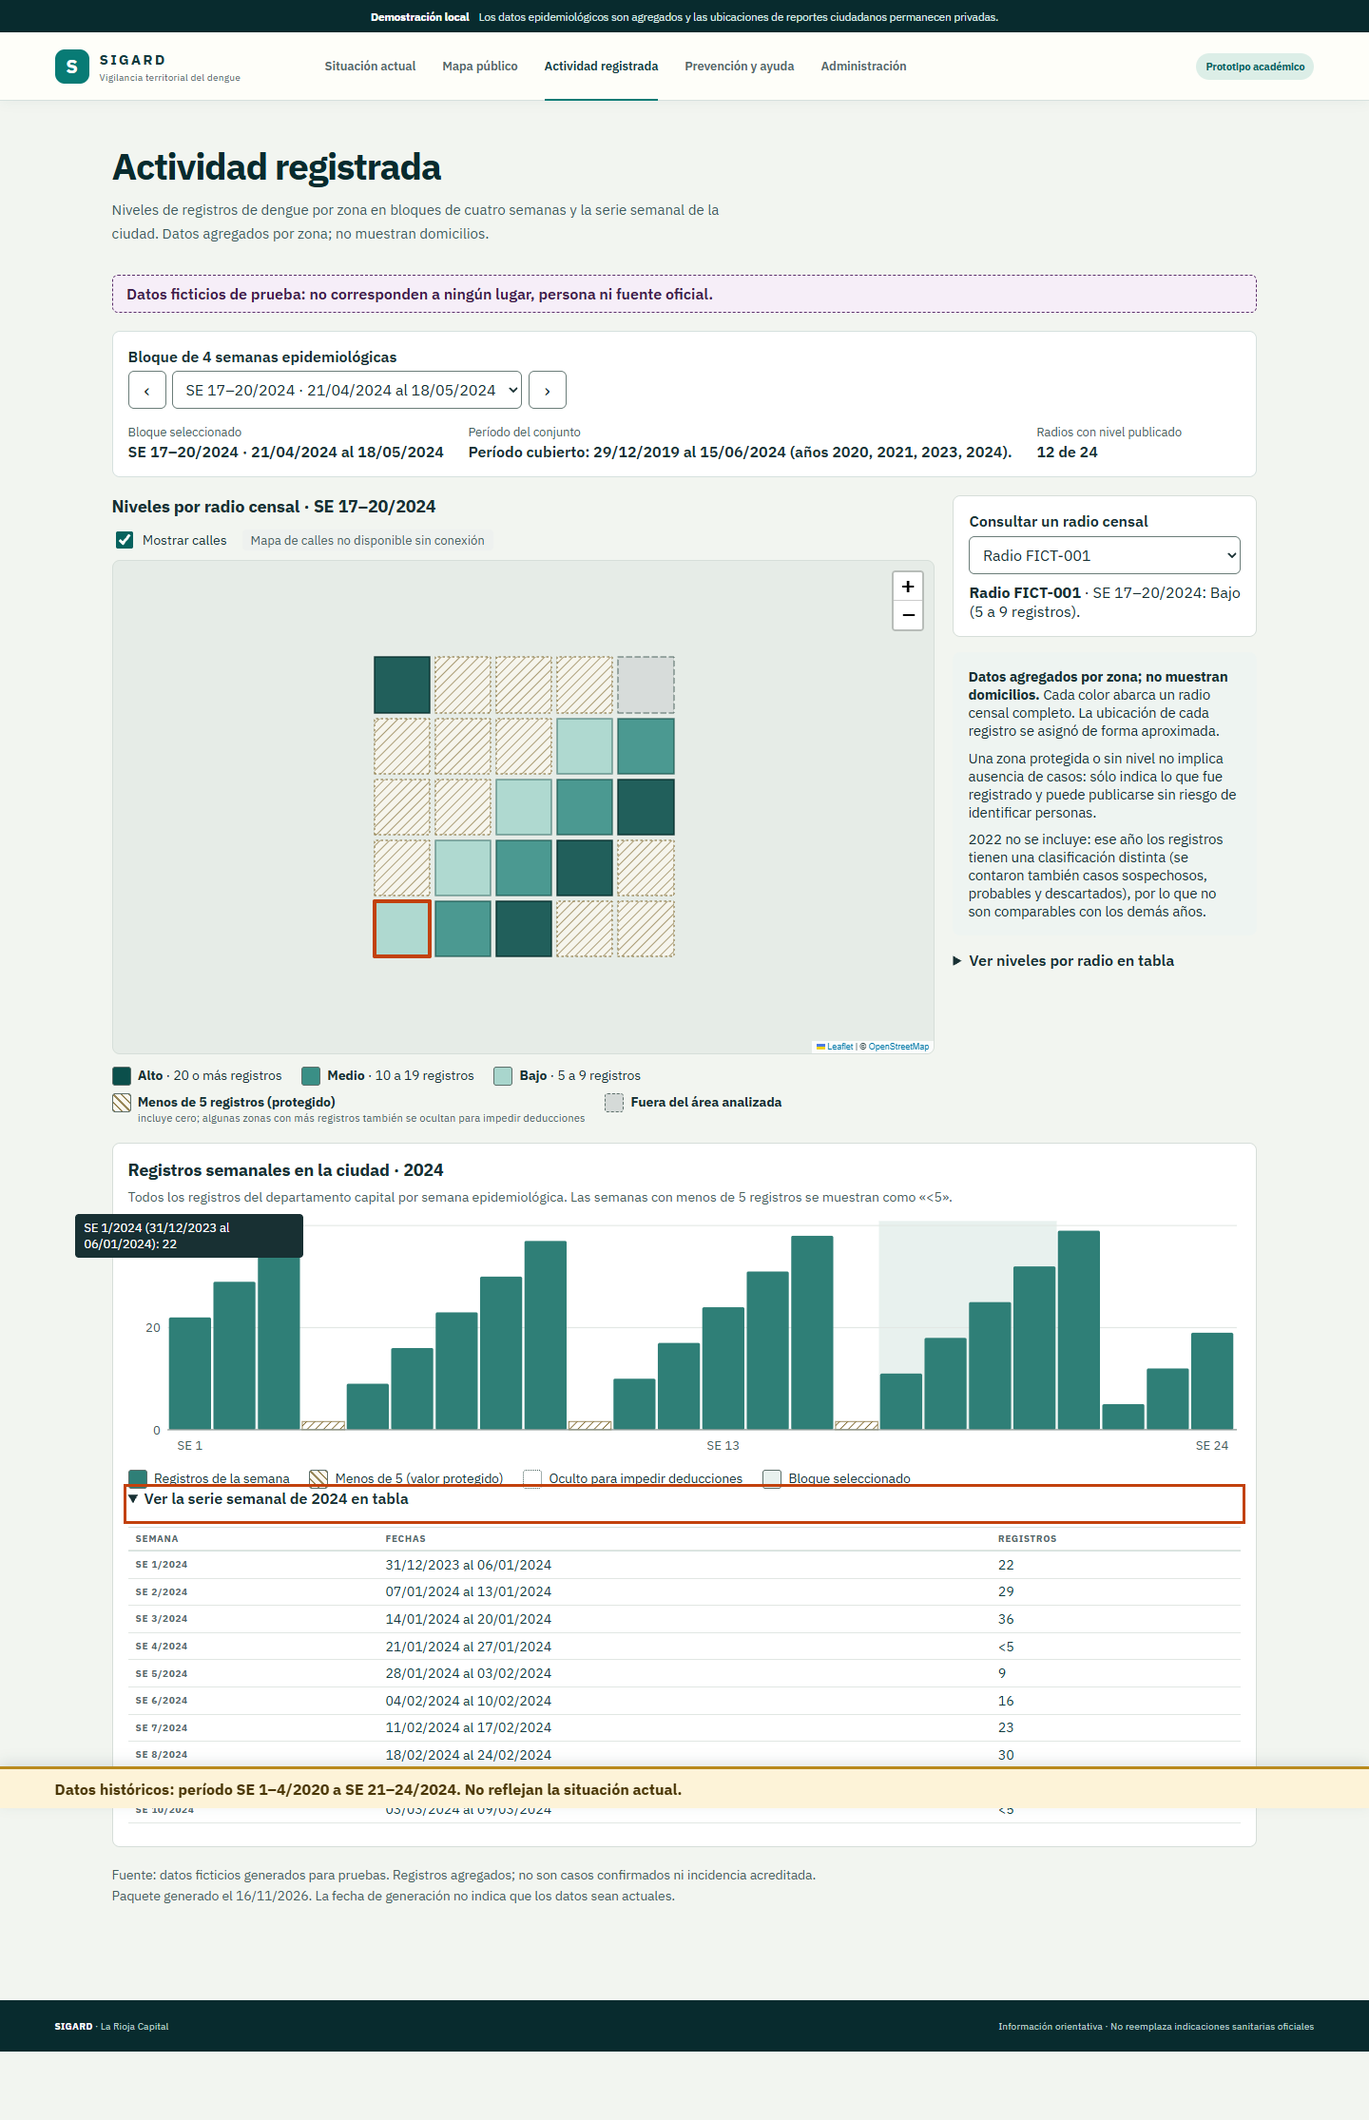
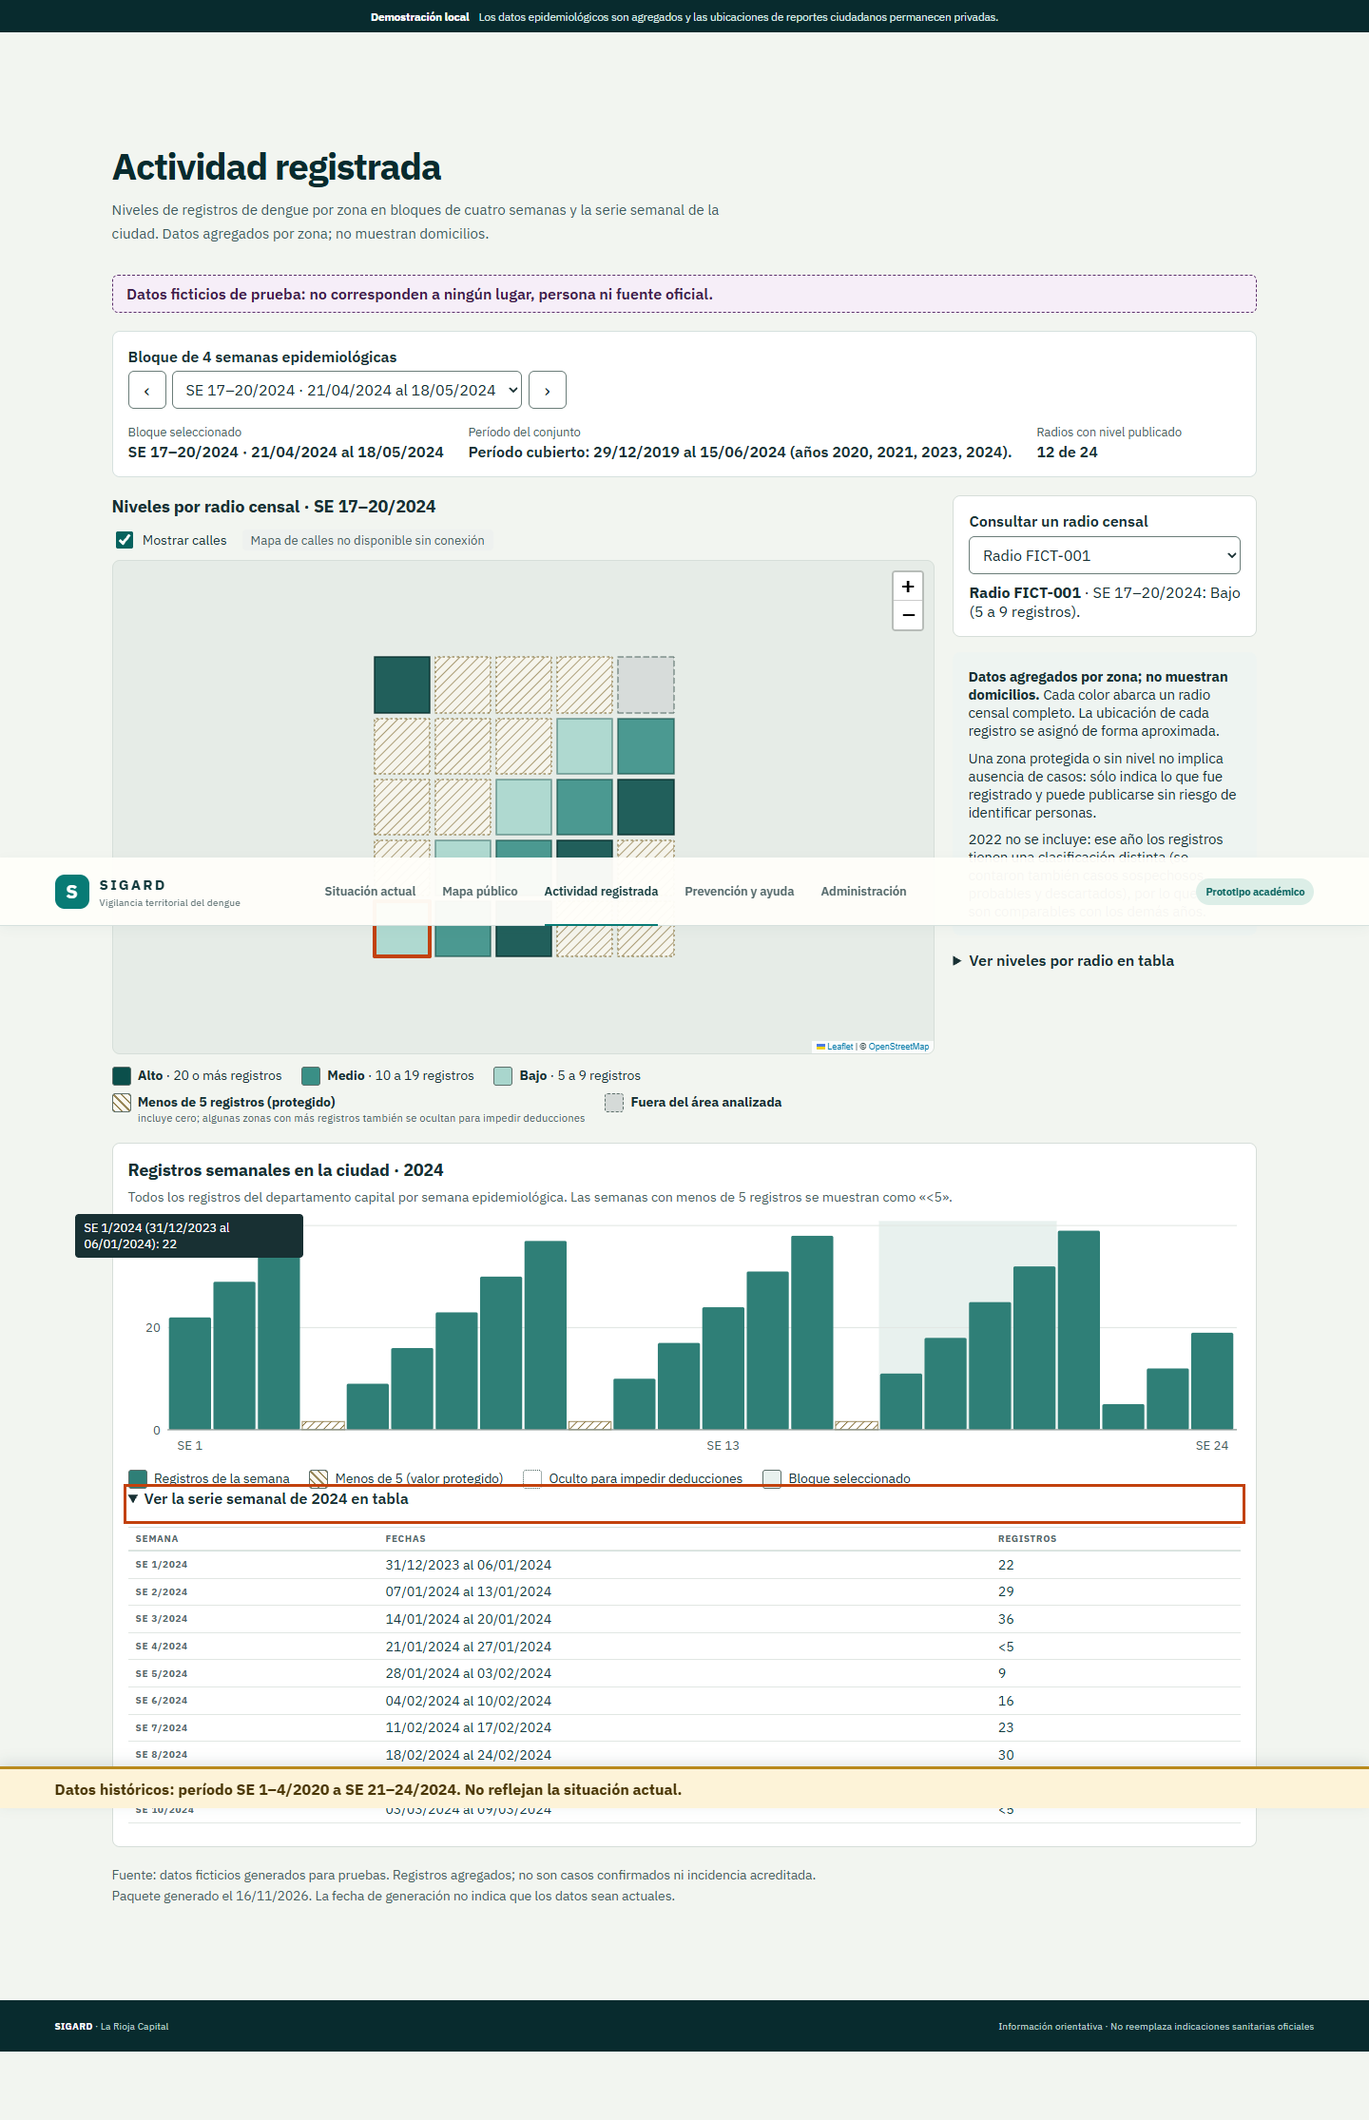
docs: portada ciudadana en el manual, estado funcional y README
- Manual ciudadano: nueva sección «Situación actual (portada)» con tres
  capturas nuevas (escritorio y celular con datos ficticios, celular sin
  datos autorizados) y capturas regeneradas de actividad, prevención y
  seguimiento (fixtures ficticias de public-activity y citizen-flow).
- Estado funcional: qué muestra la portada, qué se quitó de la vista
  pública y pendiente de frases sanitarias en PreventionGuide y
  SymptomsAlert de /prevencion.
- README del frontend y doc local: ruta / y nuevas pruebas.

diff --git a/docs/mvp-functional-status.md b/docs/mvp-functional-status.md
@@ -44,6 +44,32 @@ Cierre funcional del 21/10/2026: rama `entrenamiento-ML`. Alcance: prototipo aca
 no sistema sanitario operativo. Esta matriz contrasta documentación con código;
 no toma los estados históricos del plan como prueba de implementación.
 
+## Portada pública ciudadana — 27/11/2026
+
+La ruta `/` («Situación actual») pasó a ser una portada para la ciudadanía, en siete bloques:
+accesos (cómo prevenir, reportar un posible criadero, ver el mapa); registros de la ciudad en las
+últimas 8 semanas con fecha del dato y tendencia; qué hacer hoy y síntomas, tomados del contenido
+preventivo publicado con su fuente; cómo funciona el reporte y su privacidad; calendario de temporada
+en períodos de 4 semanas; y sobre SIGARD, privacidad y canales oficiales.
+
+- **Datos:** sólo el paquete autorizado de actividad (`GET /api/v1/public/activity`, serie semanal
+  de la ciudad con valores menores a 5 como «<5»/«oculto»). Sin autorización institucional responde
+  404 y la portada muestra un estado vacío; nunca convierte un valor protegido en cero. La
+  tendencia y el total de un período se calculan sólo si todas sus semanas son visibles. Con el
+  paquete ficticio se muestra «Datos ficticios de demostración» en ambos bloques.
+- **Contenido sanitario:** secciones publicadas (`/api/v1/public/prevention` o respaldo estático)
+  con su fuente; la portada no escribe síntomas ni consejos propios. Los contactos y el número de
+  emergencia se muestran sólo con estado `publicado`/`confirmado`.
+- **Quitado de la vista pública:** predicción departamental, ranking de radios por percentil y
+  nombre del modelo (decisión del responsable). La simulación espacial y el contexto territorial
+  siguen en `/mapa`, sin cambios. `/` ya no carga la publicación del MVP.
+- **Pruebas:** `test:public-home` (11) y `test:public-home:browser` (390 px y 1440 px, paquete
+  ficticio y estado vacío, contraste AA, texto ≥ 16 px, accesos y teclado).
+- **Pendiente (sin cambios en esta etapa):** `PreventionGuide` y `SymptomsAlert` de `/prevencion`
+  tienen frases sanitarias escritas en el código (por ejemplo «Sin agua acumulada, el mosquito no
+  puede completar su ciclo», «Revisá tu casa y los espacios cercanos cada semana…») en lugar de
+  venir del contenido publicado.
+
 ## Entorno integral de demostración descartable — 21/10/2026
 
 `npm run dev:demo` desde `frontend` coordina Vite 5173, investigación A/B 8765
@@ -250,11 +276,11 @@ con PostGIS. Docker sigue apagado y no se utilizó PostgreSQL 5432.
 | Plan etapa 2 | Persistencia geoespacial y publicación versionada | Parcial | Etapa 17: cuatro migraciones aplicadas/revertidas/reaplicadas en PostgreSQL/PostGIS real; punto generado, polígono ficticio, SRID, FK/índices/GiST y GeoJSON | Alta | Integración descartable verificada; falta importador completo con lote territorial y operación persistente. No se utilizó 5432. |
 | Plan etapas 3 y 6; MVP datos consumidos | API pública de semanas, predicciones, capas y evaluación | Parcial | `public.py`, regresión `test_public_api.py`; etapa 17 comprueba rutas espaciales/GeoJSON en PostGIS con geometrías ficticias, también desde navegador | Alta | Conserva evidencia previa de 263 radios por HTTP/SQLite y fallback; falta importación completa de esos datos en PostGIS y lote operativo. |
 | MVP §1–5; consolidación §3 | Ingreso anónimo y navegación pública | Completa | `App.jsx`, seis rutas existentes y navegación compartida | Alta | Mantener separación de prevención/administración y datos analíticos. |
-| MVP §1 | Resumen de la semana, estimación agregada y procedencia | Completa | `pages/Dashboard.jsx`, `StatCard`, `TopRadios`, `services/sigardData.js` | Alta | Mantener distinción entre total departamental y señal territorial. |
+| MVP §1 | Resumen de la semana, estimación agregada y procedencia | Reemplazada (27/11/2026) | La portada ciudadana (`pages/Dashboard.jsx`, `services/publicHome.mjs`) ya no muestra estimación departamental, ranking ni modelo; la simulación y el contexto siguen en `/mapa` | Alta | Ver «Portada pública ciudadana — 27/11/2026». |
 | MVP §2; plan etapa 7 | Cambio temporal alineado entre predicción y simulación | Completa | Estado compartido en `App.jsx`, `TemporalControls`, `getExperimentalCollection`, `assertCompleteData` | Alta | Mantener validación exacta de corte e inicio/fin de semana. |
 | MVP §3; plan etapa 7 | Mapa público de contexto y simulación con detalle agregado | Completa | `pages/Mapa.jsx`, `TerritorialMap`, `RadioDetails`, geometrías públicas aprobadas | Alta | Conservar 263 radios y leyendas sin umbrales sanitarios. |
 | Plan etapa 7: teclado y alternativa textual; PRODUCT accesibilidad | Consultar cualquier radio público sin pulsar un polígono | Completa | `TerritorialMap` incorpora selector nativo, detalle vivo, enfoque y contorno; `security/public-map.test.mjs` y recorrido real de teclado/clic en Chromium | Alta | **Resuelta en etapa 13.** Conservar selección por código y leer siempre los valores de la capa/semana vigente. |
-| MVP §3 y §5; plan §3 y etapa 7 | Leyendas y distinción observado/sintético/predicho | Completa | `LevelLegend`, `MethodNotice`, `RadioDetails`, `Dashboard.jsx`, metadatos aprobados | Alta | No rotular percentiles o scores como riesgo epidemiológico validado. |
+| MVP §3 y §5; plan §3 y etapa 7 | Leyendas y distinción observado/sintético/predicho | Completa | `LevelLegend`, `MethodNotice`, `RadioDetails`, `Mapa.jsx`, metadatos aprobados | Alta | No rotular percentiles o scores como riesgo epidemiológico validado. |
 | MVP §4 | Validación temporal pública con métricas y tabla de seis semanas | Completa | `pages/Validacion.jsx`, `BacktestChart`, `model_evaluation.json` | Media | Conservar alcance departamental y limitaciones exploratorias. |
 | MVP §5 | Metodología y advertencias | Completa | `pages/Metodologia.jsx`, avisos junto a mapas | Media | Mantener coherencia con contratos de cada circuito. |
 | MVP §6; plan etapa 10 (RF-19–20 agrupados); módulo §4 | Prevención, síntomas, fuentes y teléfonos | Completa | `pages/Prevencion.jsx`, `PreventionGuide`, `SymptomsAlert`, `prevention_content.json`, `services/preventionData.js` | Alta | Mantener revisión editorial; no se incorpora ni modifica consejo médico aquí. |

diff --git a/docs/manuales/manual-ciudadano.md b/docs/manuales/manual-ciudadano.md
@@ -4,7 +4,7 @@ SIGARD · Vigilancia territorial del dengue · La Rioja Capital
 Versión del prototipo: `v1.0.0` (noviembre de 2026)
 
 > Las imágenes de este manual se tomaron con **datos ficticios de prueba**. No muestran casos
-> reales ni la situación sanitaria de la ciudad. Se actualizaron el 25/11/2026 con las pantallas
+> reales ni la situación sanitaria de la ciudad. Se actualizaron el 27/11/2026 con las pantallas
 > vigentes.
 
 ## 1. ¿Qué es SIGARD?
@@ -28,7 +28,7 @@ En la parte superior hay un menú con estas secciones:
 
 | Sección | Para qué sirve |
 |---|---|
-| Situación actual | Resumen general del prototipo |
+| Situación actual | Portada: accesos rápidos, registros de años anteriores, prevención, síntomas, reporte y canales oficiales |
 | Mapa público | Mapa de contexto de la ciudad |
 | Actividad registrada | Datos históricos protegidos por zona (sólo aparece si está habilitada) |
 | Prevención y ayuda | Prevención, síntomas, centros de salud, teléfonos, reporte y seguimiento |
@@ -36,7 +36,37 @@ En la parte superior hay un menú con estas secciones:
 
 El sitio funciona en computadora y en celular, y se puede recorrer con el teclado (tecla Tab).
 
-## 3. Prevención y ayuda
+## 3. Situación actual (portada)
+
+![Portada con datos ficticios de demostración, en computadora](img/ciudadano-portada.png)
+
+![La portada en el celular (datos ficticios)](img/ciudadano-portada-movil.png)
+
+La portada reúne lo más útil en una sola página:
+
+1. **Tres accesos**: **Cómo prevenir**, **Reportar un posible criadero** y **Ver el mapa**.
+2. **Registros de dengue en la ciudad**: cuántos registros hubo en cada una de las últimas 8
+   semanas con datos, con la fecha del último dato. **Es una reconstrucción histórica: no muestra
+   la situación actual.** Las semanas con menos de 5 registros aparecen como «Menos de 5». Si
+   alguna semana está protegida, el sitio no calcula si los registros subieron o bajaron, porque
+   eso permitiría deducir el valor oculto.
+3. **Qué podés hacer hoy** y **Síntomas y cuándo consultar**: el mismo contenido que publica el
+   equipo de salud en Prevención y ayuda, con la fuente de cada texto. El botón para llamar a
+   emergencias aparece sólo si ese teléfono está confirmado.
+4. **Cómo funciona el reporte ciudadano**: los pasos y qué datos se guardan.
+5. **Calendario de temporada**: los registros de cada período de 4 semanas (por ejemplo, «del 7 de
+   enero al 3 de febrero»). Elegí el año con los botones. Todas las barras usan la misma escala.
+   Los períodos con alguna semana protegida se ven con rayas y sin total.
+6. **Sobre SIGARD**: qué es, cómo se cuida la privacidad, teléfonos confirmados y fuentes
+   oficiales.
+
+Mientras el Ministerio de Salud no autorice publicar los registros, los bloques 2 y 5 muestran un
+aviso en lugar de cifras. Cuando la página usa datos de prueba, lo indica con el aviso **«Datos
+ficticios de demostración»**.
+
+![La portada en el celular, sin datos autorizados](img/ciudadano-portada-vacia-movil.png)
+
+## 4. Prevención y ayuda
 
 ![Página de prevención con centros de salud, teléfonos, reporte y seguimiento](img/ciudadano-prevencion-y-reporte.png)
 
@@ -56,7 +86,7 @@ En **Prevención y ayuda** vas a encontrar:
 El contenido lo actualiza el personal autorizado. Si el servicio no está disponible, el sitio
 muestra igual una versión guardada de la información.
 
-## 4. Enviar un reporte anónimo
+## 5. Enviar un reporte anónimo
 
 Usalo para avisar sobre **posibles criaderos o problemas en el espacio público**: agua acumulada,
 neumáticos o chatarra, microbasurales, mucha presencia de mosquitos o un pedido de control
@@ -83,7 +113,7 @@ Al terminar, el sitio te muestra un **código de seguimiento** con el formato `S
 **Guardalo**: es la única forma de consultar tu reporte, porque el sistema no te pide nombre ni
 correo.
 
-## 5. Consultar el estado de un reporte
+## 6. Consultar el estado de un reporte
 
 ![Consulta del estado con el código de seguimiento](img/ciudadano-reporte-estado.png)
 
@@ -102,7 +132,7 @@ También se muestran las fechas de recepción y de última actualización y, a v
 breve del equipo. **La consulta nunca muestra la descripción, la dirección ni las coordenadas**
 del reporte.
 
-## 6. Actividad registrada (datos históricos)
+## 7. Actividad registrada (datos históricos)
 
 ![Vista «Actividad registrada» con datos ficticios](img/ciudadano-actividad.png)
 
@@ -142,7 +172,7 @@ está disponible.
 exacto podría ayudar a identificar a una persona. Por eso los valores menores a 5 nunca se
 muestran, y se ocultan también otros valores con los que se podría deducir un número protegido.
 
-## 7. Privacidad
+## 8. Privacidad
 
 - Los reportes son **anónimos**: no se piden nombre, documento, correo ni teléfono.
 - La ubicación exacta y la descripción de tu reporte sólo las ve el personal autorizado, dentro
@@ -150,7 +180,7 @@ muestran, y se ocultan también otros valores con los que se podría deducir un 
 - Los reportes se conservan un tiempo limitado (180 días por defecto) y después se eliminan.
 - Los mapas públicos muestran **sólo datos agregados por zona**, nunca casos individuales.
 
-## 8. Limitaciones
+## 9. Limitaciones
 
 - SIGARD es un **prototipo académico en evaluación**, no un servicio oficial del Municipio ni del
   Ministerio. Enviar un reporte no garantiza una intervención.
@@ -160,7 +190,7 @@ muestran, y se ocultan también otros valores con los que se podría deducir un 
   necesariamente a un caso confirmado.
 - Horarios y teléfonos pueden cambiar; cada uno indica la fecha en que se revisó.
 
-## 9. Preguntas frecuentes
+## 10. Preguntas frecuentes
 
 **Perdí mi código de seguimiento. ¿Puedo recuperarlo?**
 No. Como el reporte es anónimo, no hay forma de asociarlo a vos. Podés enviar un reporte nuevo.

diff --git a/frontend/README.md b/frontend/README.md
@@ -10,14 +10,14 @@ Visión general, criterios y documentación: [README del repositorio](../README.
 
 | Ruta | Para quién | Qué es |
 |---|---|---|
-| `/` | Público | Situación actual (dashboard epidemiológico agregado, con su fuente técnica en el pie) |
+| `/` | Público | Situación actual: portada ciudadana con accesos, registros de la ciudad del paquete autorizado de actividad (estado vacío si no está autorizado), contenido preventivo publicado, reporte ciudadano y canales oficiales. No muestra predicción, ranking ni modelo |
 | `/mapa` | Público | Mapa público agregado por radio censal. Siempre es el mapa público; un enlace viejo `/mapa?…` con estado del visor redirige a `/admin/predictivo?…` sólo con sesión de administrador |
 | `/actividad` | Público | «Actividad registrada» con supresión de valores pequeños. Oculta salvo con un paquete autorizado o la fixture ficticia (`SIGARD_PUBLIC_ACTIVITY=fixture`) |
 | `/prevencion` | Público | Prevención y ayuda: contenido publicado desde Administración, centros de salud, teléfonos, reporte ciudadano anónimo y seguimiento por código |
 | `/validacion`, `/metodologia` | — | Páginas retiradas (Validación y Cómo funciona): las URLs viejas redirigen a la portada `/` |
 | `/admin/*` | Administradores | Siete secciones con menú lateral y barra de sesión (ver abajo) |
 
-Las vistas epidemiológicas consultan la API pública de `VITE_API_URL` y, si no responde, usan el
+El mapa público consulta la API pública de `VITE_API_URL` y, si no responde, usan el
 respaldo estático aprobado de `public/data/`; el pie indica cuál se usó.
 
 ## Instalación
@@ -122,12 +122,13 @@ npm.cmd --prefix frontend run test:guard
 npm.cmd --prefix frontend run test:dev
 # Suites Node (sin navegador)
 npm.cmd --prefix frontend run test:security        # y test:research, test:backtest, test:public-map,
-                                                  # test:public-activity, test:citizen, test:prevention,
+                                                  # test:public-activity, test:public-home, test:citizen, test:prevention,
                                                   # test:alerts, test:read-retry, test:admin, test:demo
 # Navegador (Puppeteer, sin ventanas; cada una levanta y cierra su propio entorno)
 npm.cmd --prefix frontend run test:predictive:browser          # visor con fixture ficticia ( -- --real: agregados locales)
 npm.cmd --prefix frontend run test:predictive:layout:browser
 npm.cmd --prefix frontend run test:admin:browser               # y test:admin:home:browser
+npm.cmd --prefix frontend run test:public-home:browser         # portada a 390/1440 px: paquete ficticio y estado vacío
 npm.cmd --prefix frontend run test:demo:browser                # demo completa con cierre
 ```
 

diff --git a/docs/experimental-spatial-local.md b/docs/experimental-spatial-local.md
@@ -50,8 +50,8 @@ ofrece Modelo A, Modelo B y Diferencia B − A. Cambiar vista conserva semana y 
 seleccionar un radio permite consultar ambos scores y su resta cuando existen.
 **MVP sintético y contexto** conserva la vista original y sigue accesible con
 el selector. **Situación actual** abre el dashboard original en `/dashboard`
-durante el desarrollo local autorizado. En producción, `/` sigue mostrando
-el dashboard y `/mapa` conserva la vista inicial del MVP, sin selector A/B.
+durante el desarrollo local autorizado. Desde el 27/11/2026, `/` (y su alias local `/dashboard`)
+es la portada ciudadana sin capas del MVP; `/mapa` conserva la vista inicial del MVP, sin selector A/B.
 Si la API experimental no está disponible, se muestra su error y se permite
 reintentar; nunca se sustituyen sus scores por la simulación sintética.
 
